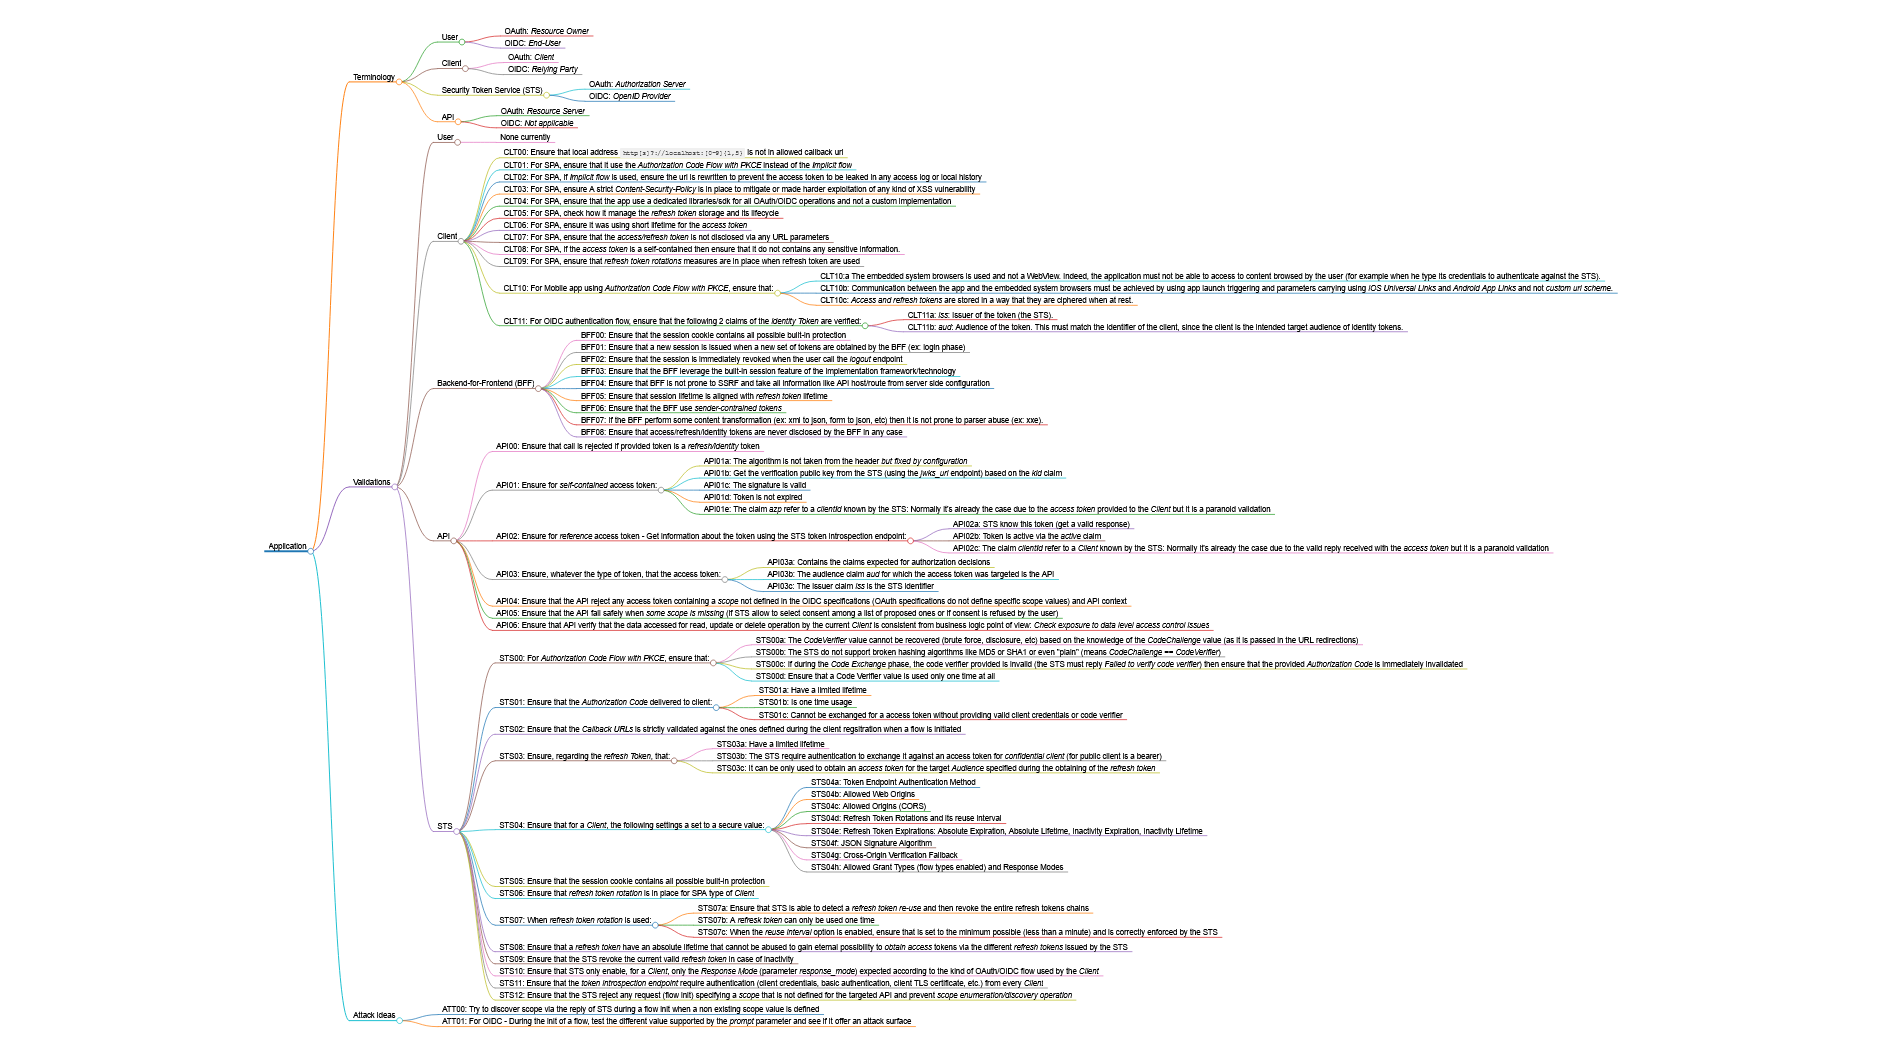
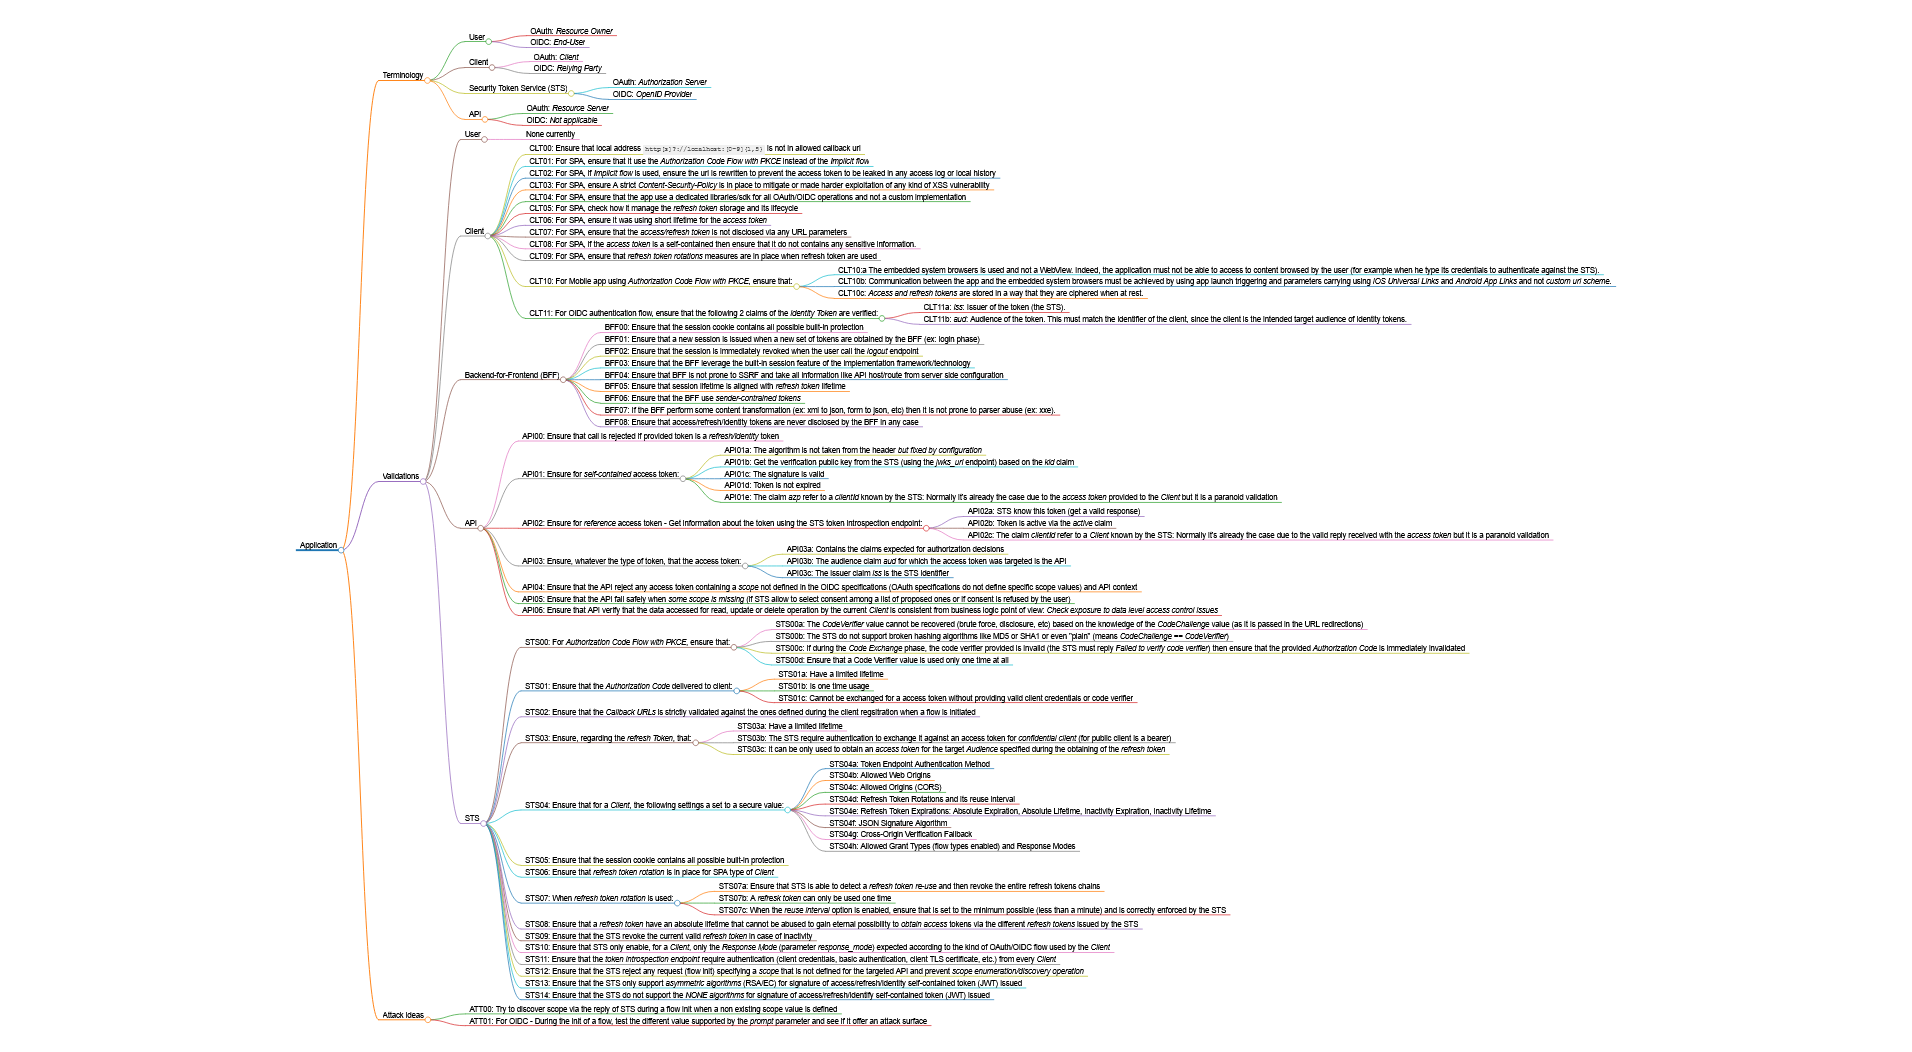
Add new STS validation points

Changed region(s): [[0.1849, 0.0304, 0.8629, 0.9734], [0.1233, 0.4867, 0.1849, 0.5475]]

diff --git a/OAauth2_OIDC_Security_Validations.md b/OAauth2_OIDC_Security_Validations.md
@@ -99,6 +99,8 @@ Focus is made on the reliability of the test result. Therefore, in case of doubt
 |         STS10         |        Automatable          |
 |         STS11         |        Automatable          |
 |         STS12         |        Automatable          |
+|         STS13         |        Automatable via checks against the config from */.well-known/openid-configuration* file          |
+|         STS14         |        Automatable via checks against the config from */.well-known/openid-configuration* file          |
 
 # Application
 
@@ -219,6 +221,8 @@ Focus is made on the reliability of the test result. Therefore, in case of doubt
 - STS10: Ensure that STS only enable, for a *Client*, only the *Response Mode* (parameter *response_mode*) expected according to the kind of OAuth/OIDC flow used by the *Client*
 - STS11: Ensure that the *token introspection endpoint* require authentication (client credentials, basic authentication, client TLS certificate, etc.) from every *Client*
 - STS12: Ensure that the STS reject any request (flow init) specifying a *scope* that is not defined for the targeted API and prevent *scope enumeration/discovery operation*
+- STS13: Ensure that the STS only support *asymmetric algorithms* (RSA/EC) for signature of access/refresh/identity self-contained token (JWT) issued
+- STS14: Ensure that the STS do not support the *NONE algorithms* for signature of access/refresh/identify self-contained token (JWT) issued
 
 ## Attack ideas
 
